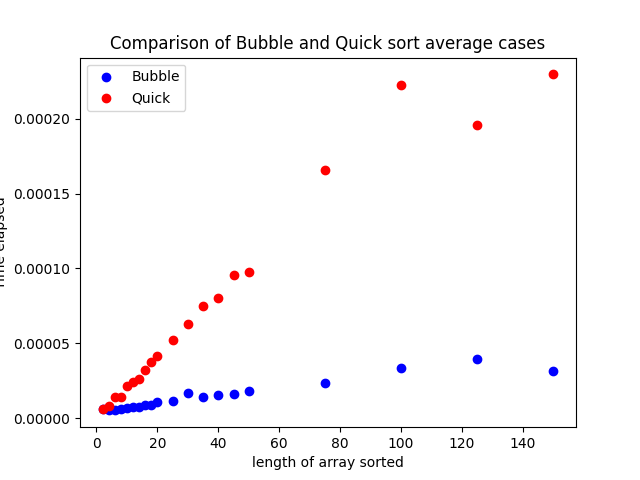
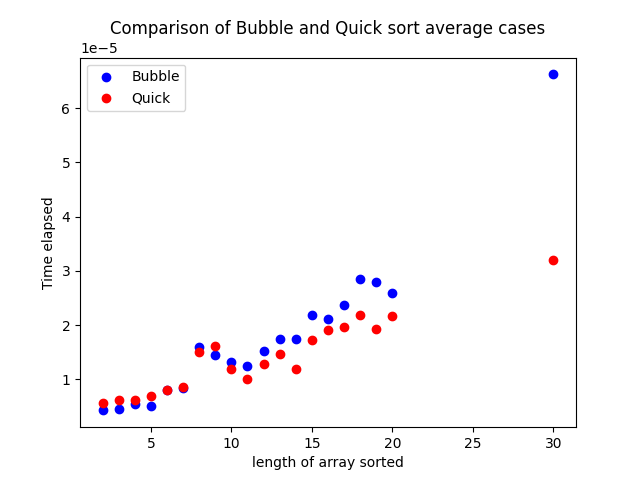
completed excesice 2

diff --git a/ex2.py b/ex2.py
@@ -8,29 +8,22 @@ def bubbleSort(a,len):
             if a[x] > a[x+1]:
                 swaps = True
                 (a[x],a[x+1]) = (a[x+1],a[x])
-        if swaps == True:
+        if swaps == False:
             break
-def partition(a, low, high):
-    pivot = a[low]
-    left = low+1
-    right = high
-    done = False
-    while not done:
-        while left <= right and a[left] <= pivot:
-            left = left +1
-        while a[right] >= pivot and right >= left:
-            right = right - 1
-        if right < left:
-            done = True
-        else:
-            a[left],a[right] = a[right],a[left]
-    a[low],a[right] = a[right],a[low]
-    return right
+def partition(a,low,high):
+    pivot = a[high]
+    i = low-1
+    for x in range(low,high):
+        if a[x] <= pivot:
+            i = i+1
+            (a[i],a[x]) = (a[x], a[i])
+    (a[i+1],a[high]) = (a[high],a[i+1])
+    return i+1
 def quickSort(a,low,high):
-    if low < high:
-        pivot = partition(a,low,high)
-        quickSort(a,low,pivot)
-        quickSort(a,pivot+1,high)
+    if low<high:
+        part = partition(a,low,high)
+        quickSort(a,low,part-1)
+        quickSort(a,part+1,high)
 #sizes of choice: 2,4,6,8,10,12,14,16,18,20,25,30,35,40,45,50,75,100,125,150
 bestBubble = []
 worstBubble = []
@@ -73,6 +66,9 @@ plt.title("Comparison of Bubble and Quick sort worst cases")
 plt.legend(["Bubble","Quick"])
 plt.savefig("ex2.worstCases.png")
 plt.clf()
+#question 4:
+#looking at the plots, in all but the best cases it appears that quick sort becomes faster
+#than bubble sort around 10 elements, so a small sort would have 9 or less elements 
 
 
 
